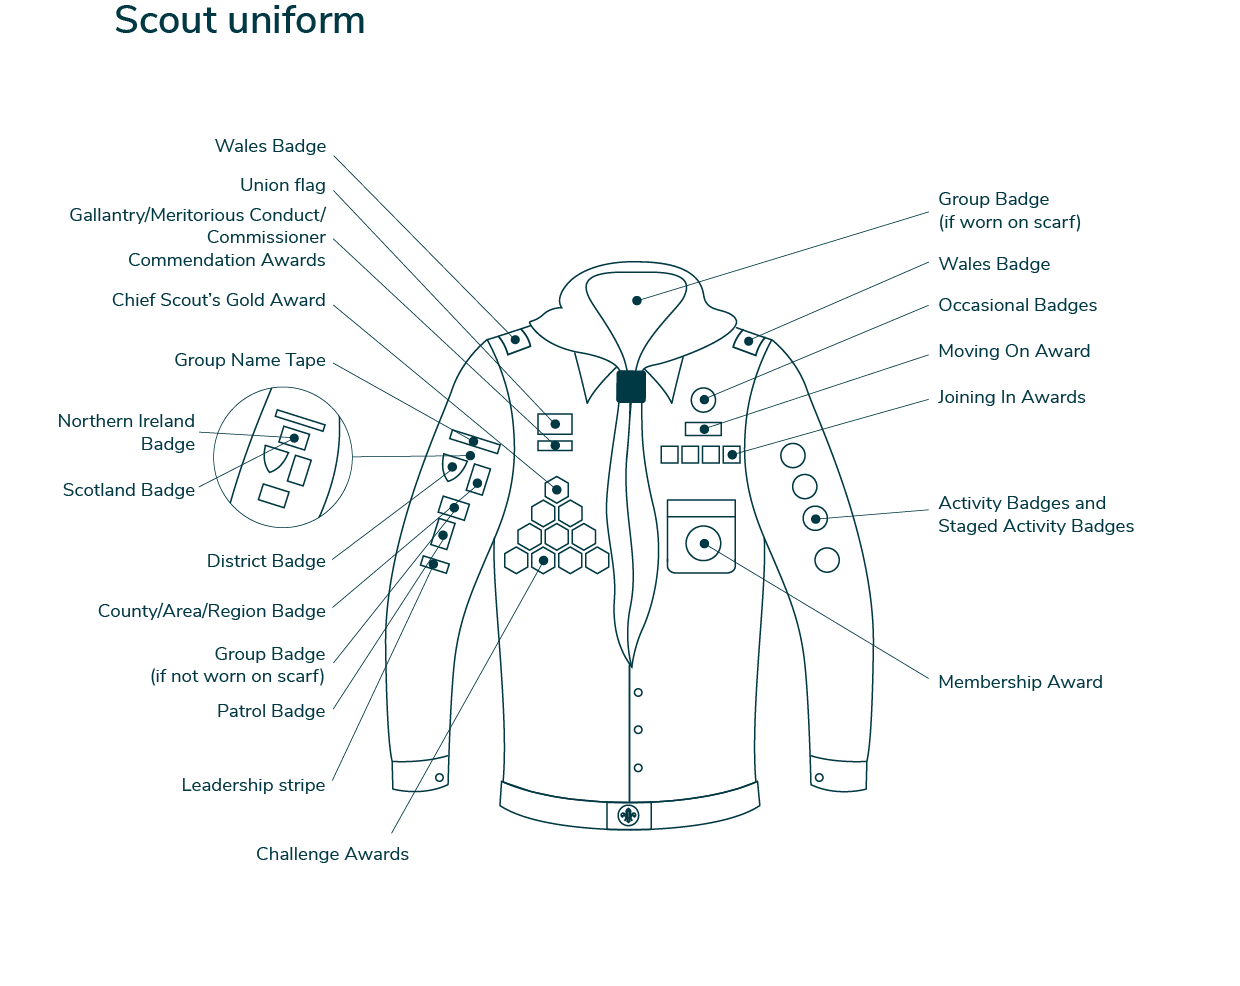
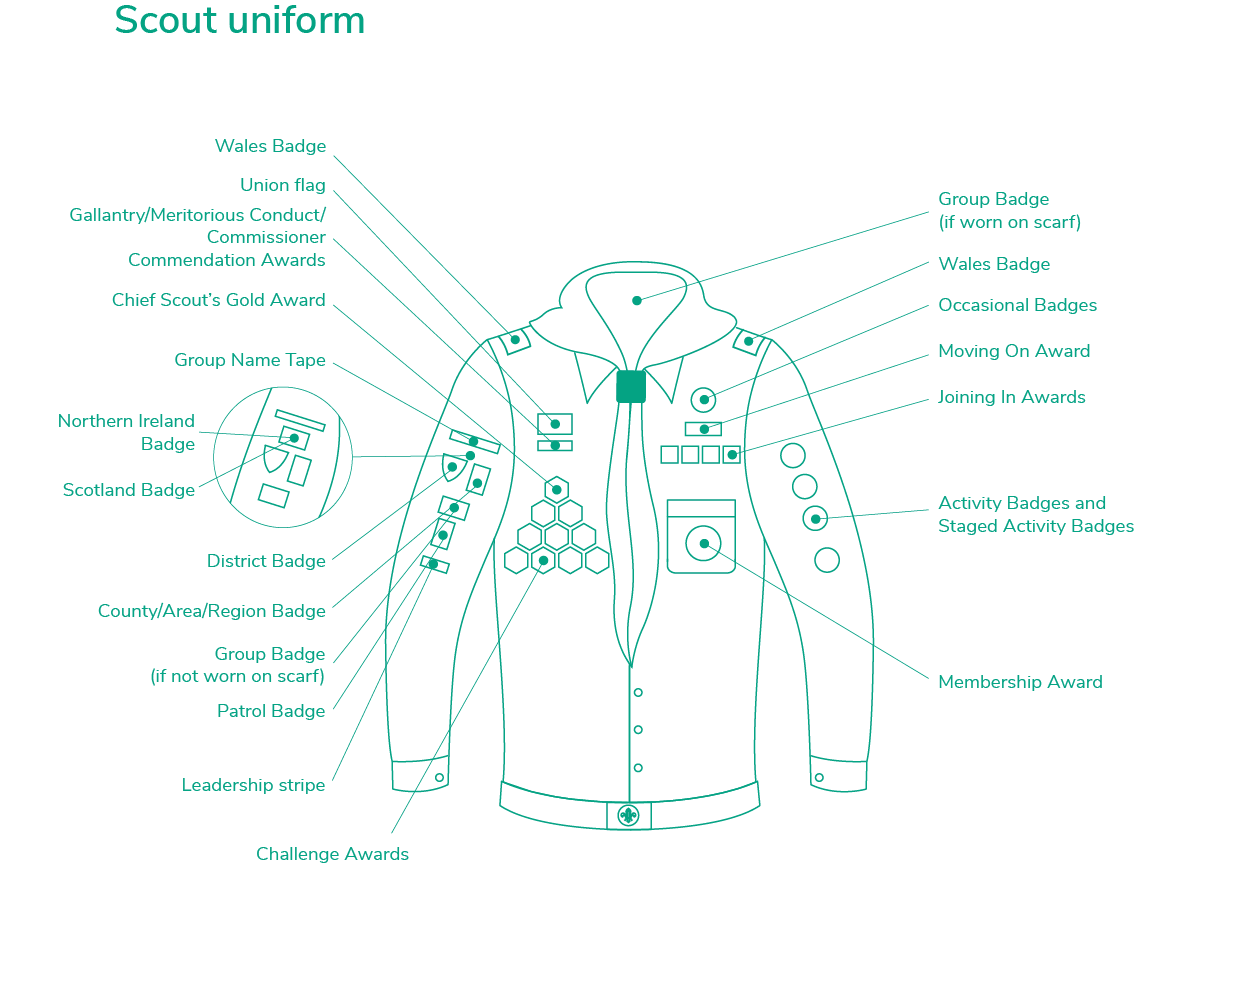
Update scouts badge pic

diff --git a/Resources&Links.htm b/Resources&Links.htm
@@ -33,9 +33,9 @@ Before you buy a uniform speak to the leader about what is essential.  Upon inve
 On moving up e.g. beavers to cubs etc, you can sew badges earned in previous sections onto a camp blanket.</p>
 
 <h1>Badge Locations</h1>
-<p><img id="Beavers badges" src="assets/images/1-uniform-diagrams_may2021_beaver.png" alt="Beavers" style="vertical-align:middle;margin:0px 50px;max-width: 100%"></p>
-<p><img id="Cubs badges" src="assets/images/2-uniform-diagrams_may2021_cubs.png" alt="Cubs" style="vertical-align:middle;margin:0px 50px;max-width: 100%"></p>
-<p><img id="Scouts badges" src="assets/images/3-uniform-diagrams_may2021_scouts.png" style="background-color:#c7c9c8;" alt="Scouts" style="vertical-align:middle;margin:0px 50px;max-width: 100%"></p>
+<p><img id="Beavers badges" src="assets/images/1-uniform-diagrams_may2021_beaver.png" alt="Beavers" style="vertical-align:middle;margin:0px 5px;max-width: 100%"></p>
+<p><img id="Cubs badges" src="assets/images/2-uniform-diagrams_may2021_cubs.png" alt="Cubs" style="vertical-align:middle;margin:0px 5px;max-width: 100%"></p>
+<p><img id="Scouts badges" src="assets/images/3-uniform-diagrams_may2021_scouts.png" alt="Scouts" style="vertical-align:middle;margin:0px 5px;max-width: 100%"></p>
 
 <p></p>
 <p><h1>Easy Fundraising</h1></p>

diff --git a/index.htm b/index.htm
@@ -5,7 +5,9 @@
 <meta name="viewport" content="width=device-width, initial-scale=1">
 <link rel="preconnect" href="https://fonts.gstatic.com">
 <link href="https://fonts.googleapis.com/css2?family=Poppins:wght@300;700&display=swap" rel="stylesheet">
-<link rel="stylesheet" href="index.bd393055.css"></head>
+<link rel="stylesheet" href="index.bd393055.css">
+<Title>Blackhill Scouts</Title>
+</head>
 <body>
 <div class="container"> <nav class="mt-5 navbar navbar-dark navbar-expand-lg">
 	<div class="container-fluid">		<a class="fw-bold navbar-brand text-primary" href="#">1<sup><small>st</small></sup> Blackhill</a> 
